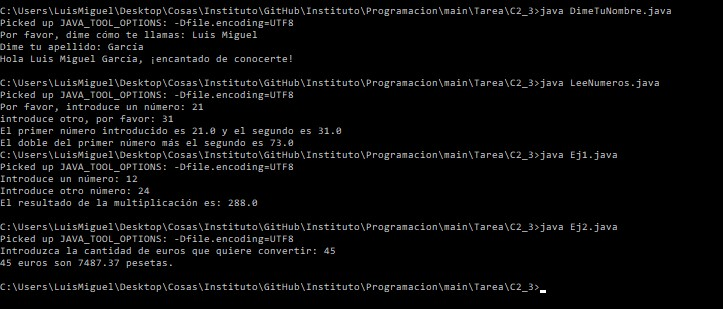
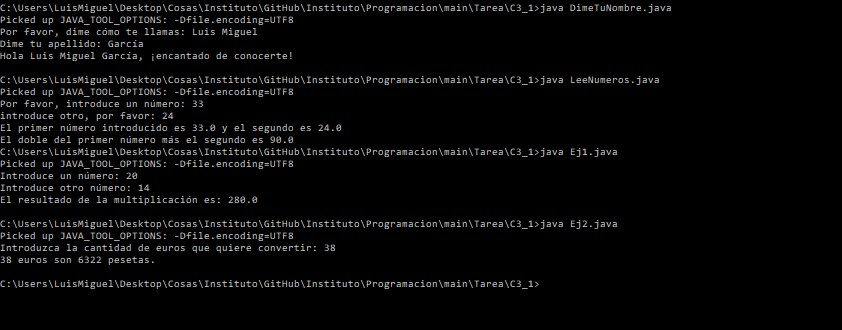
Correción tarea C3.1

Changed region(s): [[0.0, 0.233, 0.9129, 0.8738], [0.0, 0.0, 0.9433, 0.2039], [0.0, 0.9029, 0.7607, 0.9612]]

diff --git a/Programacion/main/Tarea/C3_1/Ej2.java b/Programacion/main/Tarea/C3_1/Ej2.java
@@ -12,7 +12,8 @@ public class Ej2 {
         System.out.print("Introduzca la cantidad de euros que quiere convertir: ");
         String cantidad = System.console().readLine();
         double euros = Double.parseDouble(cantidad);
-        double pesetas = 166.3860;
-        System.out.println(cantidad+" euros son "+(euros*pesetas)+" pesetas.");
+        double valorPesetas = 166.3860;
+        int pesetas = (int)(euros*valorPesetas);
+        System.out.println(cantidad+" euros son "+(pesetas)+" pesetas.");
     }
 }
